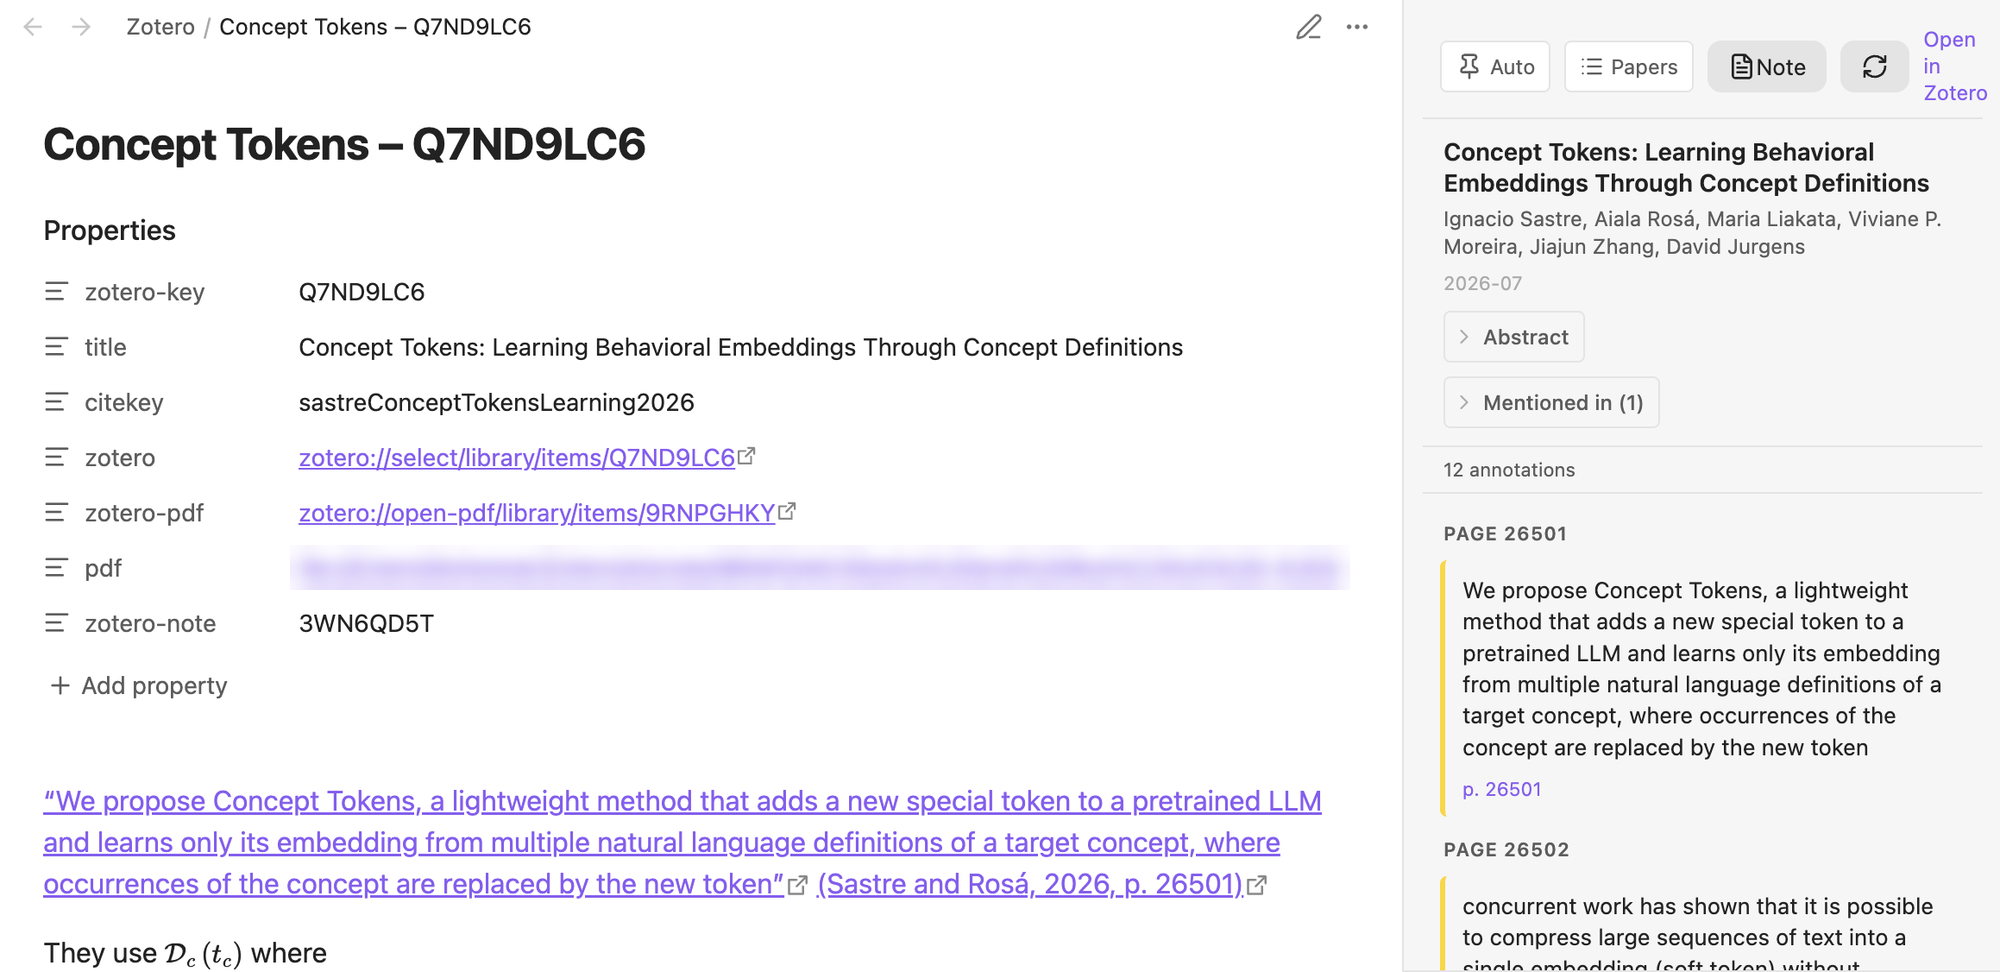
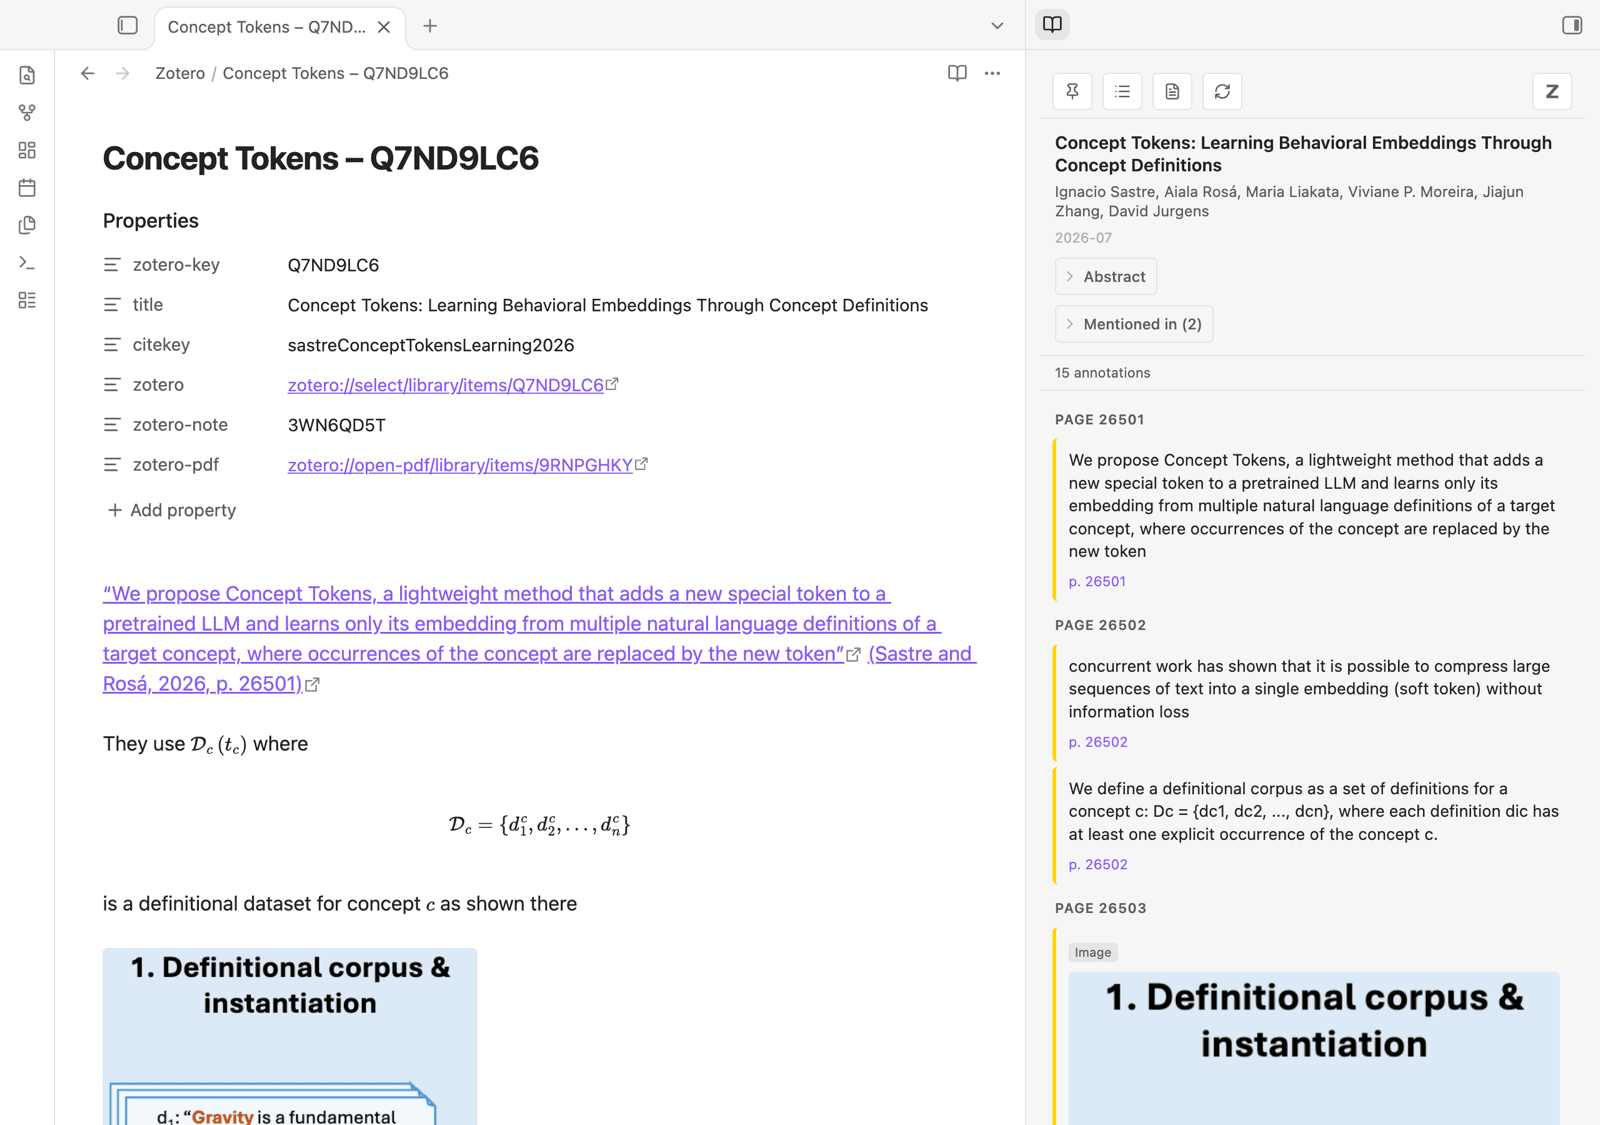
New README screenshots: link, literature note, papers list, mobile
Taken in a demo vault (current toolbar, nothing to blur), compressed.
The README also lists the Papers button and says what a tap on a
zotero:// link does on mobile since 0.5.0 (the sidebar).

diff --git a/README.md b/README.md
@@ -2,7 +2,7 @@
 
 An Obsidian plugin that automatically shows Zotero PDF annotations in a sidebar when your cursor is on a `zotero://select/library/items/ITEMKEY` link.
 
-![The cursor on a Zotero link in a note: the sidebar shows the paper, its abstract, the notes mentioning it and its Zotero notes](screenshots/zotero-link.png)
+![The cursor on a Zotero link in a project note: the sidebar shows the paper, the two notes mentioning it, and its annotations in their highlight colours, grouped by page](screenshots/zotero-link.png)
 
 *With the cursor on a Zotero link, the sidebar shows the paper: its abstract, the notes that mention it, and its Zotero notes and annotations.*
 
@@ -10,10 +10,21 @@ An Obsidian plugin that automatically shows Zotero PDF annotations in a sidebar 
 
 *With a literature note open, the sidebar shows that paper's annotations, grouped by page. The note itself holds the paper's Zotero note, where quotes and citations link back to the PDF.*
 
+![The Papers list of a project note: six papers grouped under the note's headings, each with its authors, year and line number](screenshots/papers.png)
+
+*The **Papers** button lists the papers a note cites, along its headings. Click one to see its annotations.*
+
+<img src="screenshots/mobile.png" width="300" align="right" alt="On a phone: the sidebar shows a paper from the copy kept in its literature note, marked Offline copy">
+
+*On a phone or tablet, tapping a Zotero link opens the sidebar too, from the copy of the annotations kept in the paper's literature note.*
+
+<br clear="right">
+
 ## Features
 
 - **Automatic sidebar**: Place your cursor on a Zotero link (or inside a markdown link `[text](zotero://...)`) and the sidebar opens with that paper's annotations
-- **Click interception**: Clicking a `zotero://select/` link opens the sidebar instead of switching to Zotero
+- **Click interception**: Clicking a `zotero://select/` link opens the sidebar instead of switching to Zotero (double-click to open it in Zotero)
+- **Papers in a note**: the **Papers** button lists the papers cited in the current note, grouped under its headings
 - **Paper metadata**: Title, authors, date, and collapsible abstract
 - **Notes**: Zotero notes are displayed (expanded by default) with embedded images
 - **Annotations**: Highlights, comments, and tags grouped by page, with colored sidebar matching the annotation color
@@ -26,7 +37,7 @@ An Obsidian plugin that automatically shows Zotero PDF annotations in a sidebar 
 
 ## Requirements
 
-- Obsidian desktop to talk to Zotero. On mobile (or when Zotero is not running), the sidebar shows the copy of the annotations kept in literature notes, and `zotero://` links open the paper's literature note — see below
+- Obsidian desktop to talk to Zotero. On mobile (or when Zotero is not running), the sidebar shows the copy of the annotations kept in literature notes — see below
 - **Zotero 7+** running locally (Zotero 10+ to send literature note edits back to Zotero)
 - Zotero's local API enabled: **Settings → Advanced → "Allow other applications on this computer to communicate with Zotero"**
 
@@ -83,7 +94,7 @@ A Zotero child note, as Markdown
 
 ### On mobile
 
-Zotero only runs on a computer, so on a phone or tablet the plugin works from the vault: the sidebar shows the offline copy of the paper's literature note (only papers with a literature note), the "Mentioned in" section and the Papers list work as on desktop, and tapping a `zotero://` link opens the paper's literature note (when there is none, the link opens as before). Nothing is sent to Zotero from mobile; edits made there are sent by the computer once the notes are synced to it.
+Zotero only runs on a computer, so on a phone or tablet the plugin works from the vault: the sidebar shows the offline copy of the paper's literature note (only papers with a literature note), the "Mentioned in" section and the Papers list work as on desktop, and tapping a `zotero://select` link shows the paper in the sidebar, as on desktop (its **Note** button opens the literature note). Nothing is sent to Zotero from mobile; edits made there are sent by the computer once the notes are synced to it.
 
 ## Network use and files outside the vault
 
